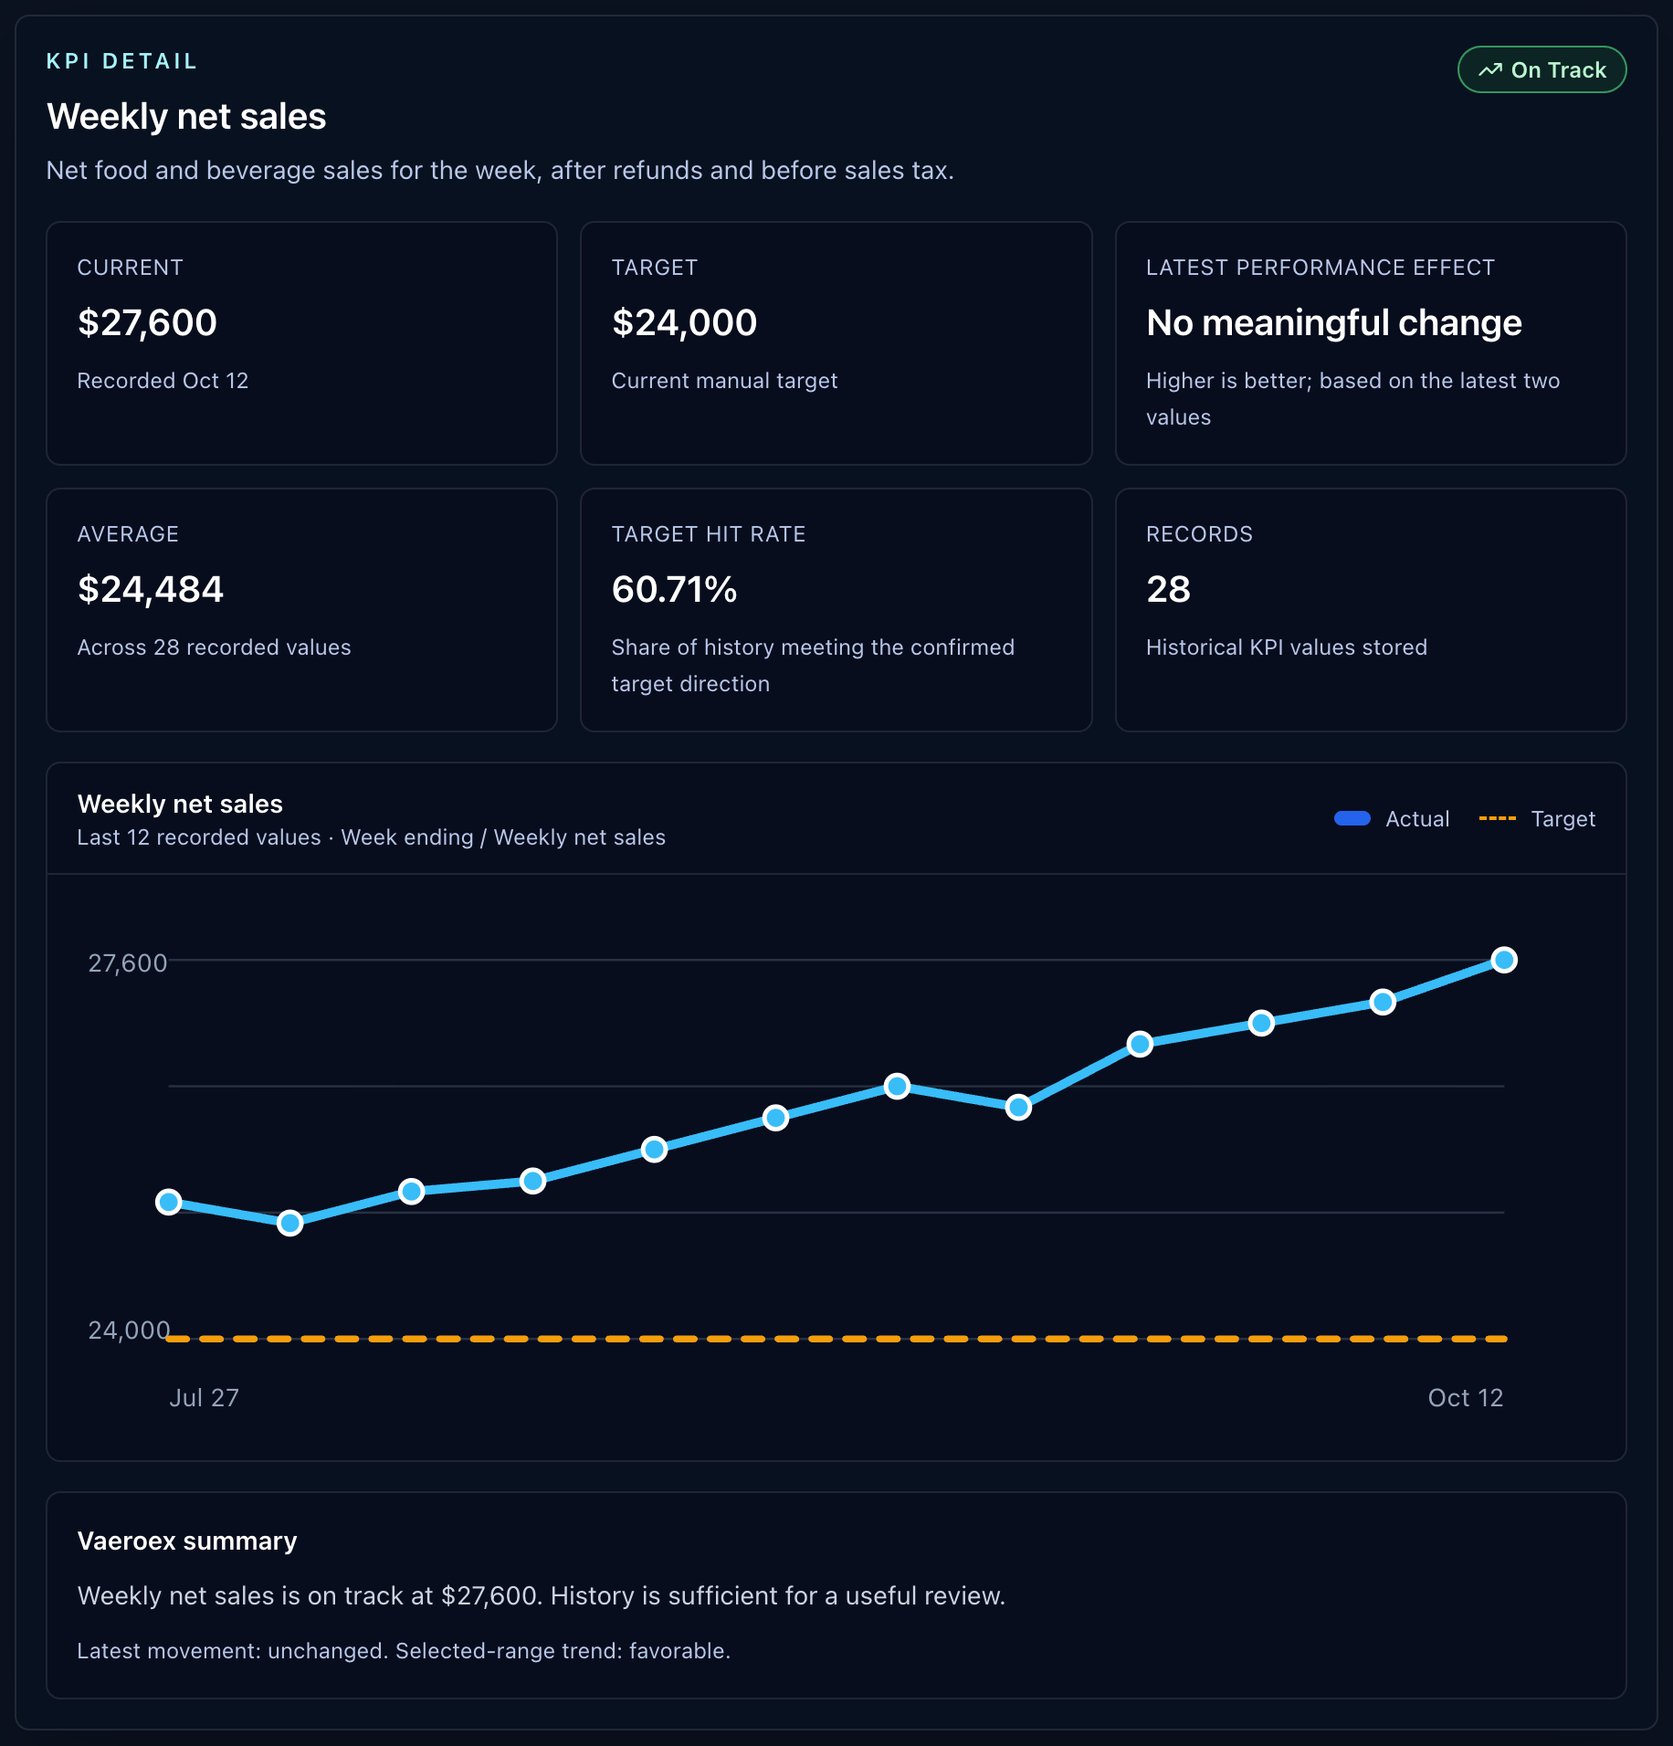
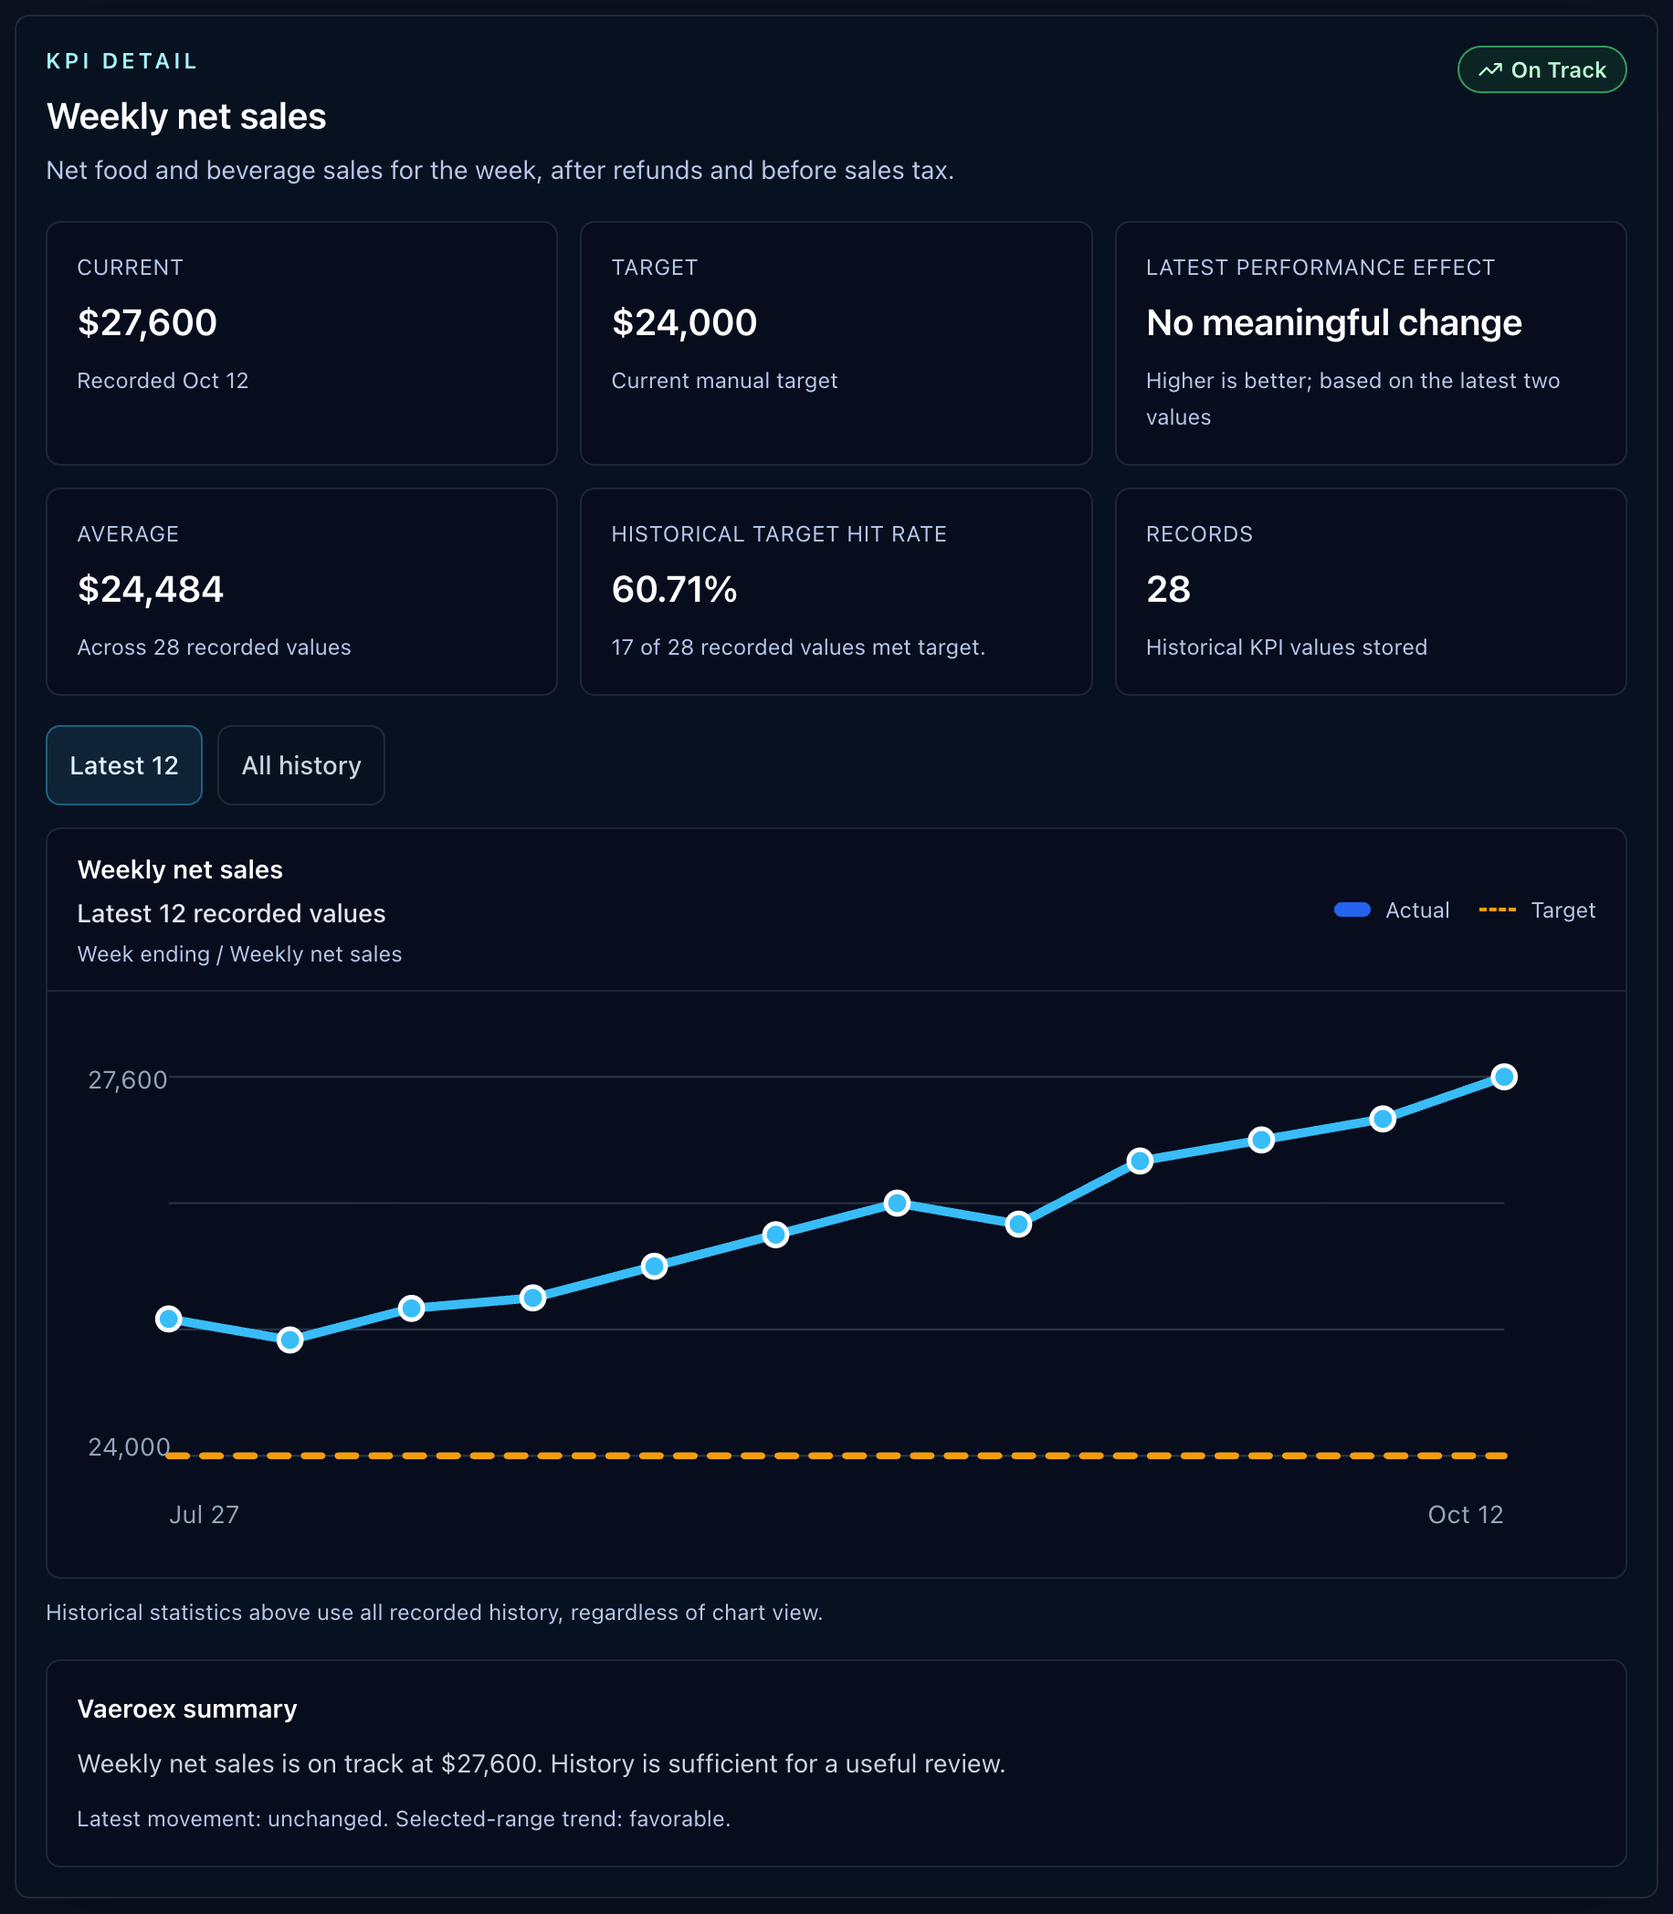
Recapture Performance imagery with explicit historical scope

diff --git a/components/marketing/WorkspaceScreenshots.tsx b/components/marketing/WorkspaceScreenshots.tsx
@@ -6,7 +6,7 @@ import styles from "./WorkspaceScreenshots.module.css";
 const captures = {
   intelligence: {"label": "Intelligence", "title": "Performance and information coverage, kept distinct.", "caption": "Coastal Kitchen’s healthy results sit alongside a separate view of information coverage. Both scores and the previous review are calculated from fictional records, not promised outcomes.", "alt": "Actual Vaeroex Intelligence screen for fictional Coastal Kitchen: Business Health 90 out of 100, Strong, and Intelligence Readiness 87 percent, Strong understanding.", "desktop": [920, 722], "mobile": [378, 929]},
   findings: {"label": "Findings", "title": "A finding you can investigate.", "caption": "Two supplier invoices are marked overdue. Vaeroex identifies the $600 total and recommends checking payment status and supplier dependency before acting.", "alt": "Actual Vaeroex supplier finding for Coastal Kitchen: two of six invoices marked overdue, totaling $600, Medium confidence, with a specific reconciliation step and an explicit limit on what the register proves.", "desktop": [736, 528], "mobile": [352, 762]},
-  performance: {"label": "Performance", "title": "See the movement behind the latest number.", "caption": "Weekly sales history, a confirmed target, and the latest recorded value. The mobile detail focuses on the historical chart and its summary.", "alt": "Actual Vaeroex Performance view for fictional Coastal Kitchen: weekly net sales of $27,600 against a $24,000 target. The chart shows the latest 12 observations.", "desktop": [916, 956], "mobile": [346, 435]},
+  performance: {"label": "Performance", "title": "See the movement behind the latest number.", "caption": "Weekly sales history, a confirmed target, and the latest recorded value. The historical hit rate uses all 28 records; the chart clearly labels the latest 12.", "alt": "Actual Vaeroex Performance view for fictional Coastal Kitchen: weekly net sales of $27,600 against a $24,000 target. Historical target hit rate is 60.71 percent, with 17 of 28 values meeting target; the chart shows the latest 12 recorded values and offers All history.", "desktop": [916, 1048], "mobile": [346, 628]},
   notes: {"label": "Business Notes", "title": "Keep the context behind the figures.", "caption": "An unsubmitted meeting-note draft records operating context and the supplier follow-up. Review and approval remain a separate step.", "alt": "Actual Vaeroex Business Note editor containing a fictional Coastal Kitchen meeting draft, an October 12 observation date, and the Review and Extract Business Context action.", "desktop": [916, 790], "mobile": [378, 796]},
   evidence: {"label": "Supporting evidence", "title": "Follow a finding back to its records.", "caption": "Two dated invoices from one supplier register support this finding. Their recorded amounts are $420 and $180; current settlement status still needs confirmation.", "alt": "Actual Vaeroex evidence panel for Coastal Kitchen: two original invoice records totaling $600, one independent source, Medium evidence strength, and explicit missing payment-status evidence.", "desktop": [736, 840], "mobile": [352, 1078]},
 } as const;

diff --git a/docs/website-workspace-captures.md b/docs/website-workspace-captures.md
@@ -2,7 +2,7 @@
 
 ## Provenance and isolation
 
-Application source: `3f5431207c43534caf2c4f3b9d4b9057c8583799` (main after #495/#496). This revision changes only marketing presentation, static images, capture documentation and script-only fixtures. Workspace components, calculations, navigation, billing and production configuration are unchanged. The main auto-deployment hold remains enabled.
+Application source: `3f5431207c43534caf2c4f3b9d4b9057c8583799` (main after #495/#496). The imagery work changes marketing presentation, static images, capture documentation and script-only fixtures. The separately requested Performance clarification uses application commit `dc3e650bb1d651046701ab4f72ba79e33b5272f5`: explicit historical target counts, chart scope and a read-only All history option. Calculations, metric inputs, data access, billing and production configuration remain unchanged. The main auto-deployment hold remains enabled.
 
 `scripts/website-demo-preview.cjs` renders the actual AppShell, Intelligence route's final JSX/client components, Performance page and Files & Notes page. Authentication/database reads are replaced by bounded local adapters; all actions are inert. The normal operational-evidence producer, Intelligence layer, coverage calculator, snapshot composition/projections and consumers calculate the displayed results. Performance uses its normal page logic. This is a real-component capture, not an end-to-end import/provider test or a recreated dashboard.
 
@@ -38,7 +38,7 @@ Performance's normal summary uses its performance-effect semantics: “Latest mo
 2. Use Chrome's native DevTools device toolbar, Responsive dimensions, **DPR 2**, height 1000. Read `innerWidth`, `devicePixelRatio`, `document.fonts.status` and the visible DOM bounds before export. Wait for settled UI and loaded fonts.
 3. Intelligence overview: 1200 CSS pixels wide; capture the actual Health/Readiness content. Mobile: 390 CSS pixels, both complete cards.
 4. Findings: 1440 desktop / 390 mobile. Open the real direct link `/app/intelligence?finding=operational-overdue-suppliers-source-file%3Acoastal-invoices`. Capture the complete Summary panel. Select Evidence and expand the supplier group; capture both records and missing evidence.
-5. Performance: 1200 desktop / 390 mobile. Open Weekly net sales via `/app/kpis?timeline=90D&metric=Weekly+net+sales&section=detail#kpi-detail`. Desktop captures the real KPI detail; mobile focuses on its chart and summary.
+5. Performance: 1200 desktop / 390 mobile. Open Weekly net sales via `/app/kpis?timeline=90D&metric=Weekly+net+sales&section=detail#kpi-detail`. Desktop captures the real KPI detail; mobile includes the historical target card, record count and scoped chart.
 6. Notes: 1200 desktop / 390 mobile. Add business note; fill `noteDraft` for desktop or the concise mobile draft below, date October 12. Do not submit. Scroll the page to the top so fixed headers cannot overlay captured content. Capture the actual editor, date and review action.
 7. Use **DevTools → More options → Capture full size screenshot**, which saves a native PNG at exactly twice the CSS width. Move the pointer outside the crop using normal UI controls before capture. The general browser screenshot API emits JPEG and is used only for review images, never these marketing assets.
 8. Apply the integer pixel crop in `scripts/website-demo/captures.json`, then encode **lossless WebP once**. No resizing, compositing, retouching, color/text/control changes or invented values. Verify hashes/dimensions and inspect every resulting image.
@@ -57,7 +57,7 @@ Mobile draft (379 characters, unsubmitted):
 
 The previous browser API supplied JPEG originals, which were encoded again as lossy WebP quality 92. They were approximately 1× captures. The 719-pixel evidence image could render around 884 CSS pixels wide, enlarging it even before accounting for a high-density screen. Mobile sources were roughly 335 pixels wide for a ~329 CSS pixel display. A larger nominal export after the fact would not repair those originals.
 
-The replacements are native 2× PNG → lossless WebP, with no intermediate resizing. The viewer now caps overviews at 900 CSS pixels and finding/evidence details at 720; mobile at 340 with separate real mobile captures. `srcSet` explicitly declares the 2× source, and width/height attributes describe CSS dimensions to reserve the correct aspect ratio. No optimizer or CDN resizing path is involved: the browser requests the static asset directly. The ten final files total approximately 581 KB, with individual files below 77 KB despite the sharper resolution.
+The replacements are native 2× PNG → lossless WebP, with no intermediate resizing. The viewer now caps overviews at 900 CSS pixels and finding/evidence details at 720; mobile at 340 with separate real mobile captures. `srcSet` explicitly declares the 2× source, and width/height attributes describe CSS dimensions to reserve the correct aspect ratio. No optimizer or CDN resizing path is involved: the browser requests the static asset directly. The ten overview/detail files total approximately 600 KB, with individual files below 85 KB despite the sharper resolution.
 
 ## Privacy and qualification
 
@@ -67,4 +67,14 @@ All final images show only fictional business content and ordinary workspace con
 
 ## Integration imagery extension
 
-The approved ten overview/detail assets remain unchanged. Six new native 2× lossless captures show the actual Square saved-Payments browser, QuickBooks report observation, and Google Sheets selected-cell preview. See [Coastal Kitchen reusable scenario](coastal-kitchen-demo.md) and `scripts/website-demo/integration-captures.json` for provider relationships, capture provenance and reproduction. No live connection, account, import or production mutation is involved.
+The ten overview/detail assets were preserved for the integration addition; the two Performance assets were subsequently recaptured for the requested history-scope clarification below. Six new native 2× lossless captures show the actual Square saved-Payments browser, QuickBooks report observation, and Google Sheets selected-cell preview. See [Coastal Kitchen reusable scenario](coastal-kitchen-demo.md) and `scripts/website-demo/integration-captures.json` for provider relationships, capture provenance and reproduction. No live connection, account, import or production mutation is involved.
+
+## Target history scope clarification — October 13
+
+The normal Performance calculation evaluates every eligible recorded value for the selected KPI, using its confirmed direction and target rules. For Coastal Kitchen weekly net sales this is **17 of 28 = 60.71%**. Eleven earlier observations missed the unchanged $24,000 target. The latest twelve observations (July 27–October 12) all met it. The values, dates, eligibility and mathematical result are unchanged.
+
+The actual workspace component now labels the card **Historical target hit rate**, gives the numerator and denominator, visibly labels **Latest 12 recorded values**, and offers **All history**. All history displays the same 28 values from April 6–October 12; it does not change the card or redefine the date-filtered comparison workflow. URL links retain the metric/list/date context and work with Back/Forward. Missing values or targets remain excluded and the supporting text reports exclusions.
+
+Only `performance-desktop.webp` and `performance-mobile.webp` were recaptured at native DPR 2 from that updated component. The mobile crop intentionally keeps the historical count and chart scope together. Their per-asset provenance, crops and hashes override the original manifest-level application commit. All other 20 approved workspace, integration and VSI images and the genuine VSI response remain byte-for-byte unchanged. No provider call or database write was needed.
+
+Focused verification covers normal target directions, ranges, zeros, missing values/targets, unknown direction, 12/all-28 rendering, unchanged percentages, preserved URL filters, Back/Forward, keyboard navigation and 390/320px overflow. The target-persistence runner also now resolves two existing imports in its isolated loader; KPI writes fail the test if they attempt to read Sheets.

diff --git a/docs/coastal-kitchen-demo.md b/docs/coastal-kitchen-demo.md
@@ -32,7 +32,7 @@ The integration screenshots do **not** add duplicate sources to the approved Hea
 5. Open `/app/settings/integrations/google-sheets` at 1040×1000/DPR2. Click **Preview selected columns**, never Approve. Capture the actual mapping metric fieldset through its preview. At 390/DPR2 capture the selected-cell preview with its explicit non-import statement. Do not claim these fixture cells were fetched from Google.
 6. Wait for fonts/rendering, move pointer outside the crop, then use Chrome's native **Capture full size screenshot** to obtain PNG at DPR2. Browser automation screenshots are JPEG and are suitable only for review evidence, not these marketing masters. Crop at integer native-pixel coordinates from `integration-captures.json`; encode lossless WebP without resizing or changing interface pixels. Inspect every image for pointers, private identifiers, real data, loading states and browser chrome.
 7. The production components used by these captures are unchanged from commit `dd16057ad68239b17c567ec3617c7a59fdd1a86c` (the approved imagery head). Fixture/capture additions live only under `scripts/website-demo`; no fixture route is shipped in the application. `integration-screens.tsx` mounts the actual components at their existing read boundaries. The Sheets-only wrapper supplies local page context; only the real editor is captured.
-8. Preserve the ten approved overview/detail assets listed in `captures.json`. New six assets are listed separately in `integration-captures.json`, including source screen, viewport, crop, encoding and SHA-256.
+8. Preserve the ten approved overview/detail assets listed in `captures.json`; only the two Performance images were later recaptured for the requested historical scope clarification. New six assets are listed separately in `integration-captures.json`, including source screen, viewport, crop, encoding and SHA-256.
 9. Build a Preview deployment, never Production. Check all provider tabs, keyboard navigation, 390px/320px layout, DPR2 source resolution, image loading and caption; retain Google Sheets pilot eligibility and spreadsheet-upload fallback at connection and pre-purchase points. Keep the main automatic deployment hold.
 
 See also [workspace screenshot capture record](website-workspace-captures.md) for the original scenario and approved screenshots.
@@ -53,3 +53,7 @@ A disposable loopback-only database copy was also prepared for actual VSI retrie
 - Run the normal loopback component preview, open `/app/si`, and inspect the recorded answer through the actual `VsiWorkspace` and `Exchange`. Its two GET adapters accept only this fixture workspace and conversation; writes, generation, usage calls and unrelated IDs are rejected. No production/runtime fixture route is added.
 - `vsi-captures.json` records native DPR-2 PNGs, viewport sizes, actual transcript scroll positions, integer crop rectangles and lossless WebP hashes. Desktop captures show the prompt/recommendation and budget/preparation. Separate 390px and 320px captures focus on the recommendation and full proposed budget, retaining their limitations. The narrow source avoids shrinking the 390px text at 320px; the VSI image group uses modestly wider mobile framing for readable text. The complete public text transcript preserves the remaining execution steps, sample message, success measures and source descriptions.
 - Preserve the existing sixteen imagery assets. Verify the new images and text transcript as delivered at desktop, 390px and 320px. Never manually change numbers, answer text, citations, scores or application controls for marketing.
+
+## Performance target history
+
+Weekly net sales keeps its original 28 observations and $24,000 target: 17 met target (60.71%); the latest 12 all met it. The workspace now calls this **Historical target hit rate** and labels the chart separately, with an **All history** link exposing the earlier misses. Reproduce and capture from application commit `dc3e650bb1d651046701ab4f72ba79e33b5272f5` or later using the unchanged fixtures. `captures.json` records the two replacement Performance crops. Do not adjust the dataset to make the historical card equal the recent chart.
